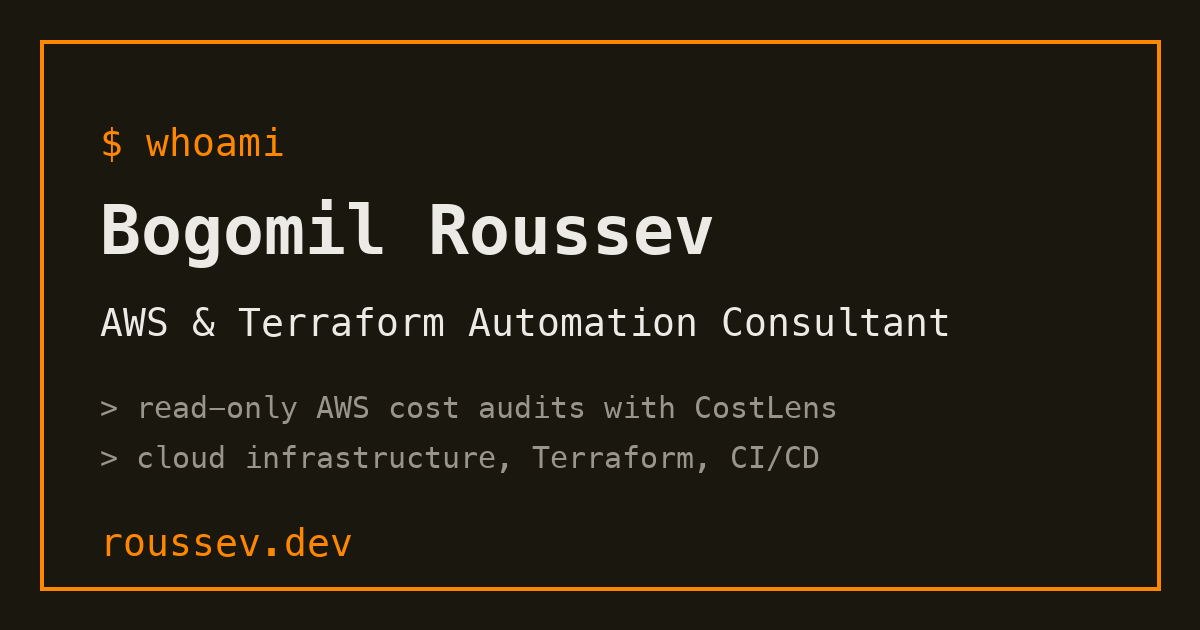
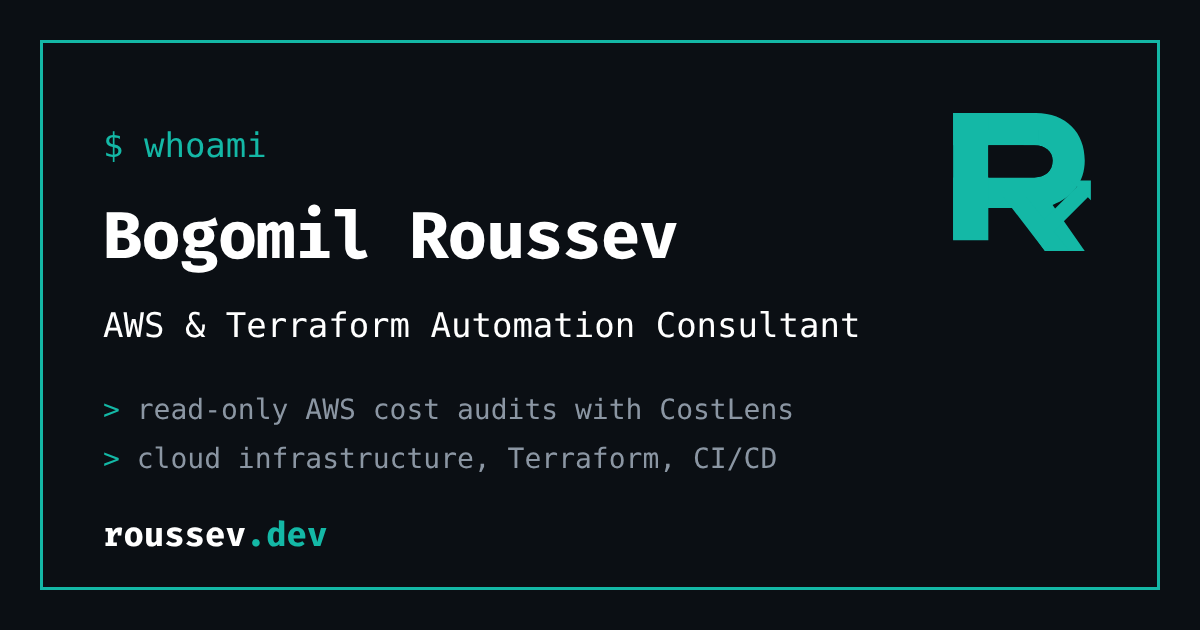
feat(brand): regenerate the default social preview in brand colors
static/images/og-default.png (1200x630, used for og:image and
twitter:image on pages without their own image) keeps its terminal
layout but switches to the teal/near-black palette and adds the "R"
mark. Its source, docs/og-default.html, is committed so the image can be
regenerated instead of edited by hand.

Claude-Session: https://claude.ai/code/session_01VZJwzamdU7JUSvstEvNeTe

Changed region(s): [[0.0308, 0.0603, 0.9867, 0.9651], [0.0925, 0.6937, 0.6783, 0.754], [0.7708, 0.181, 0.925, 0.4222]]

diff --git a/docs/og-default.html b/docs/og-default.html
@@ -1,0 +1,83 @@
+<!DOCTYPE html>
+<!-- Source of static/images/og-default.png, the default social preview
+     (1200x630). Open this file in a browser at a 1200x630 viewport and take a
+     screenshot, or render it headless, for example:
+       npx playwright screenshot --viewport-size=1200,630 \
+         docs/og-default.html static/images/og-default.png
+     Colors follow docs/brand.md. -->
+<html lang="en">
+<head>
+<meta charset="utf-8">
+<title>roussev.dev social preview</title>
+<style>
+  @font-face {
+    font-family: "Fira Code";
+    font-weight: 400 700;
+    /* Fira Code must be installed locally (https://github.com/tonsky/FiraCode),
+       or the preview falls back to the default monospace font. */
+    src: local("Fira Code"), local("FiraCode-Regular");
+  }
+  :root {
+    --teal: #14B8A6;
+    --ink: #0B0F14;
+    --white: #FFFFFF;
+    --text: #CBD5E1;
+    --muted: #8B96A3;
+  }
+  html, body { margin: 0; }
+  body {
+    width: 1200px;
+    height: 630px;
+    background: var(--ink);
+    font-family: "Fira Code", monospace;
+    color: var(--text);
+    overflow: hidden;
+  }
+  .frame {
+    position: absolute;
+    inset: 40px;
+    border: 3px solid var(--teal);
+    padding: 64px 60px 0;
+  }
+  .mark {
+    position: absolute;
+    top: 64px;
+    right: 60px;
+    width: 150px;
+    height: 150px;
+    color: var(--teal);
+  }
+  .prompt { color: var(--teal); font-size: 34px; margin: 18px 0 0; }
+  h1 { color: var(--white); font-size: 66px; font-weight: 700; margin: 28px 0 0; letter-spacing: -0.02em; }
+  .role { color: var(--white); font-size: 34px; margin: 26px 0 0; }
+  ul { list-style: none; padding: 0; margin: 40px 0 0; font-size: 28px; color: var(--muted); line-height: 1.75; }
+  li::before { content: "> "; color: var(--teal); }
+  .url { position: absolute; left: 60px; bottom: 30px; margin: 0; font-size: 34px; color: var(--white); font-weight: 700; }
+  .url span { color: var(--teal); }
+</style>
+</head>
+<body>
+  <div class="frame">
+    <svg class="mark" viewBox="18 14 98 98" aria-hidden="true">
+      <defs>
+        <mask id="r-counter">
+          <rect x="0" y="0" width="128" height="128" fill="#fff"/>
+          <path fill="#000" d="M45 39H75C82 39 87 43 87 49C87 56 82 60 75 60H45Z"/>
+        </mask>
+      </defs>
+      <g fill="currentColor" mask="url(#r-counter)">
+        <path d="M22 18H76C96 18 108 31 108 49C108 63 100 73 87 78L108 108H82L62 80H45L22 101V18ZM45 39V60H75C82 60 87 56 87 49C87 43 82 39 75 39H45Z"/>
+        <path d="M22 18H45V39H22Z M22 60H45V101H22Z M38 29H68V36H38Z M68 29H78V39H68Z M55 73L70 73L98 108H82Z M80 89L104 65L111 72L87 96Z M99 62H112V75Z"/>
+      </g>
+    </svg>
+    <p class="prompt">$ whoami</p>
+    <h1>Bogomil Roussev</h1>
+    <p class="role">AWS &amp; Terraform Automation Consultant</p>
+    <ul>
+      <li>read-only AWS cost audits with CostLens</li>
+      <li>cloud infrastructure, Terraform, CI/CD</li>
+    </ul>
+    <p class="url">roussev<span>.dev</span></p>
+  </div>
+</body>
+</html>
